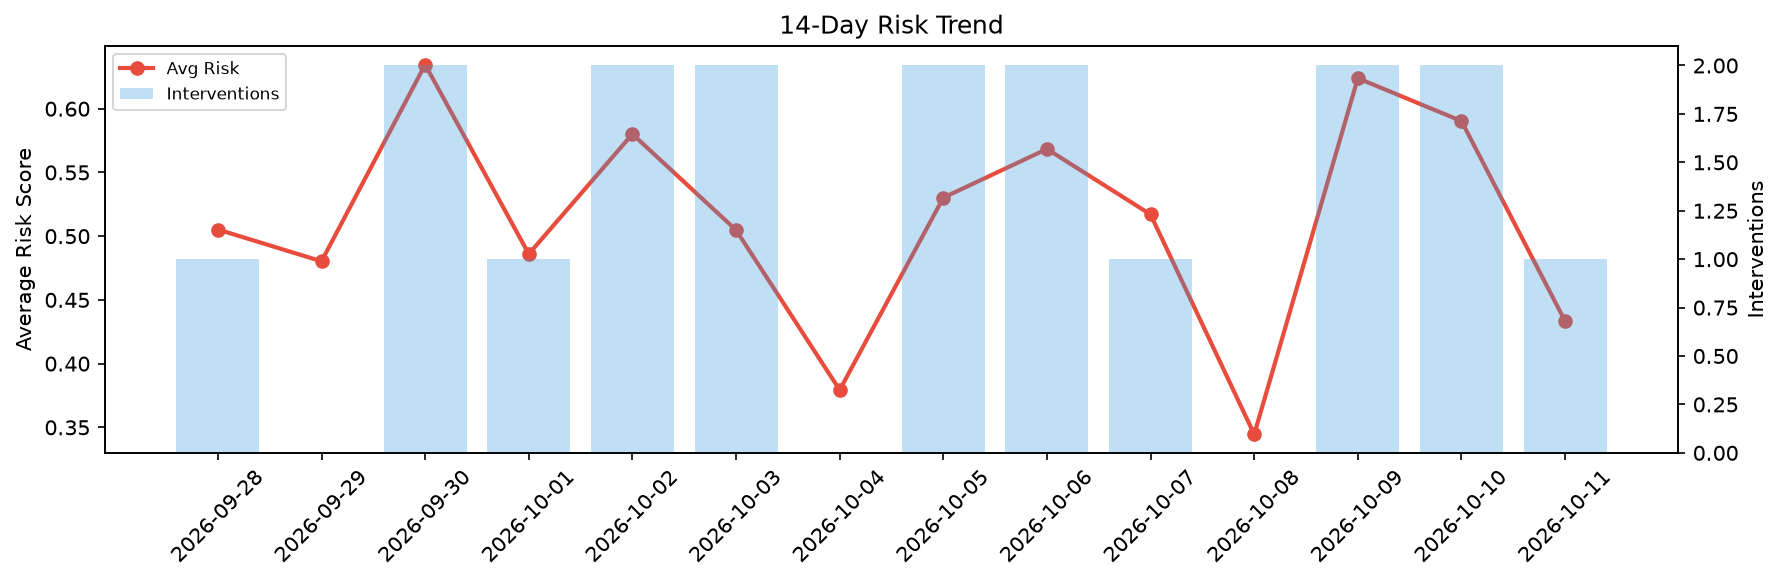
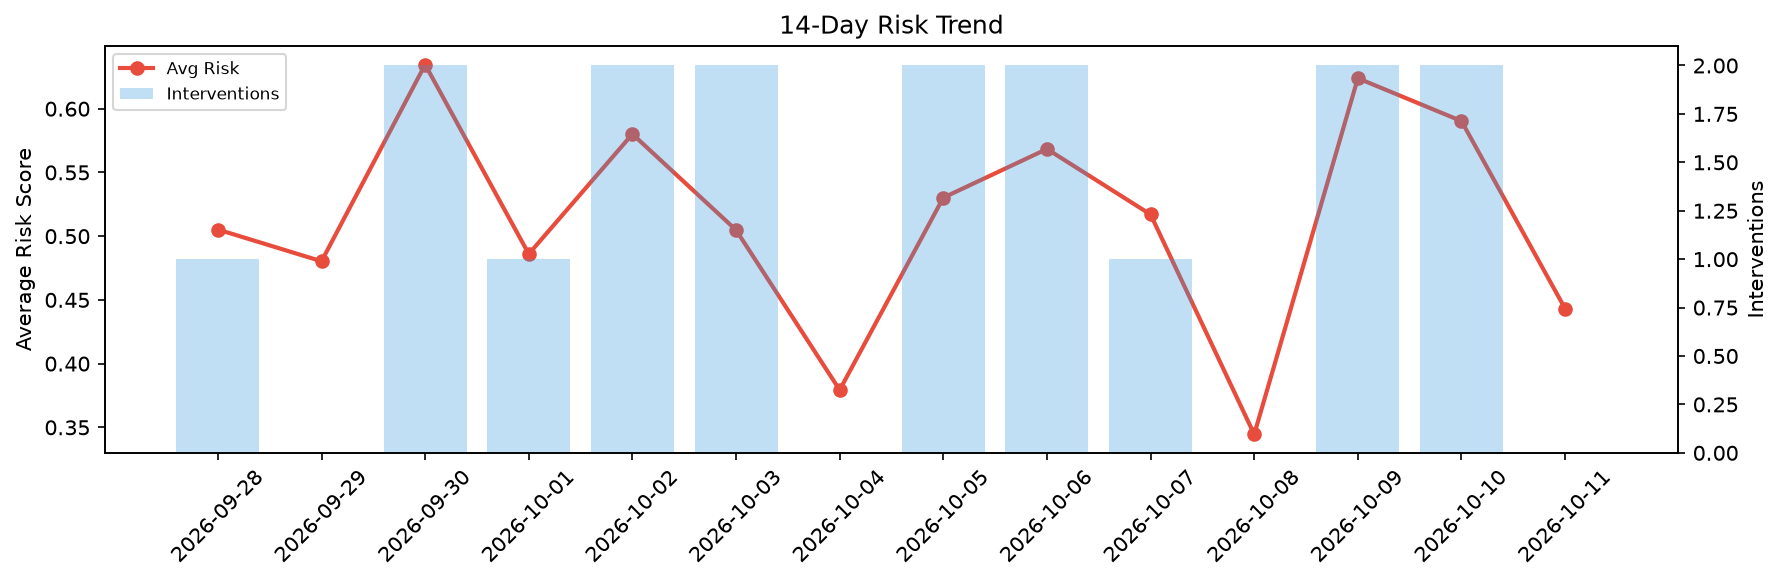
agent-improvement: daily cycle 2026-10-11T23:38

Changed region(s): [[0.8329, 0.3093, 0.9254, 0.8041]]

diff --git a/logs/2026-10-11.md b/logs/2026-10-11.md
@@ -1,6 +1,6 @@
 # Agent Improvement Report — 2026-10-11
 
-**Cycle ID:** `7e138735` | **Avg Risk:** 0.4333 | **Interventions:** 1/4
+**Cycle ID:** `242cdb56` | **Avg Risk:** 0.4431 | **Interventions:** 0/4
 
 ![Dashboard](2026-10-11_dashboard.png)
 
@@ -10,18 +10,18 @@
 
 | Domain | Risk Score | Decision | Alerts |
 |--------|-----------|----------|--------|
-| code_review | 0.7517 | intervene | complexity, duplication |
-| incident_response | 0.369 | monitor | none |
-| data_pipeline | 0.2081 | monitor | none |
-| deployment | 0.4042 | monitor | latency_p99 |
+| code_review | 0.5688 | monitor | duplication |
+| incident_response | 0.2923 | monitor | none |
+| data_pipeline | 0.5197 | monitor | none |
+| deployment | 0.3915 | monitor | none |
 
 ## Delta vs Yesterday
 
 | Domain | Today | Yesterday | Change |
 |--------|-------|-----------|--------|
-| code_review | 0.7517 | 0.7333 | 📈 2.5% |
-| incident_response | 0.369 | 0.7272 | 📉 -49.3% |
-| data_pipeline | 0.2081 | 0.3948 | 📉 -47.3% |
-| deployment | 0.4042 | 0.5059 | 📉 -20.1% |
+| code_review | 0.5688 | 0.7333 | 📉 -22.4% |
+| incident_response | 0.2923 | 0.7272 | 📉 -59.8% |
+| data_pipeline | 0.5197 | 0.3948 | 📈 31.6% |
+| deployment | 0.3915 | 0.5059 | 📉 -22.6% |
 
 **Refinement:** `{'adjustment': 'maintain', 'trend': 'improving', 'window': 4}`
